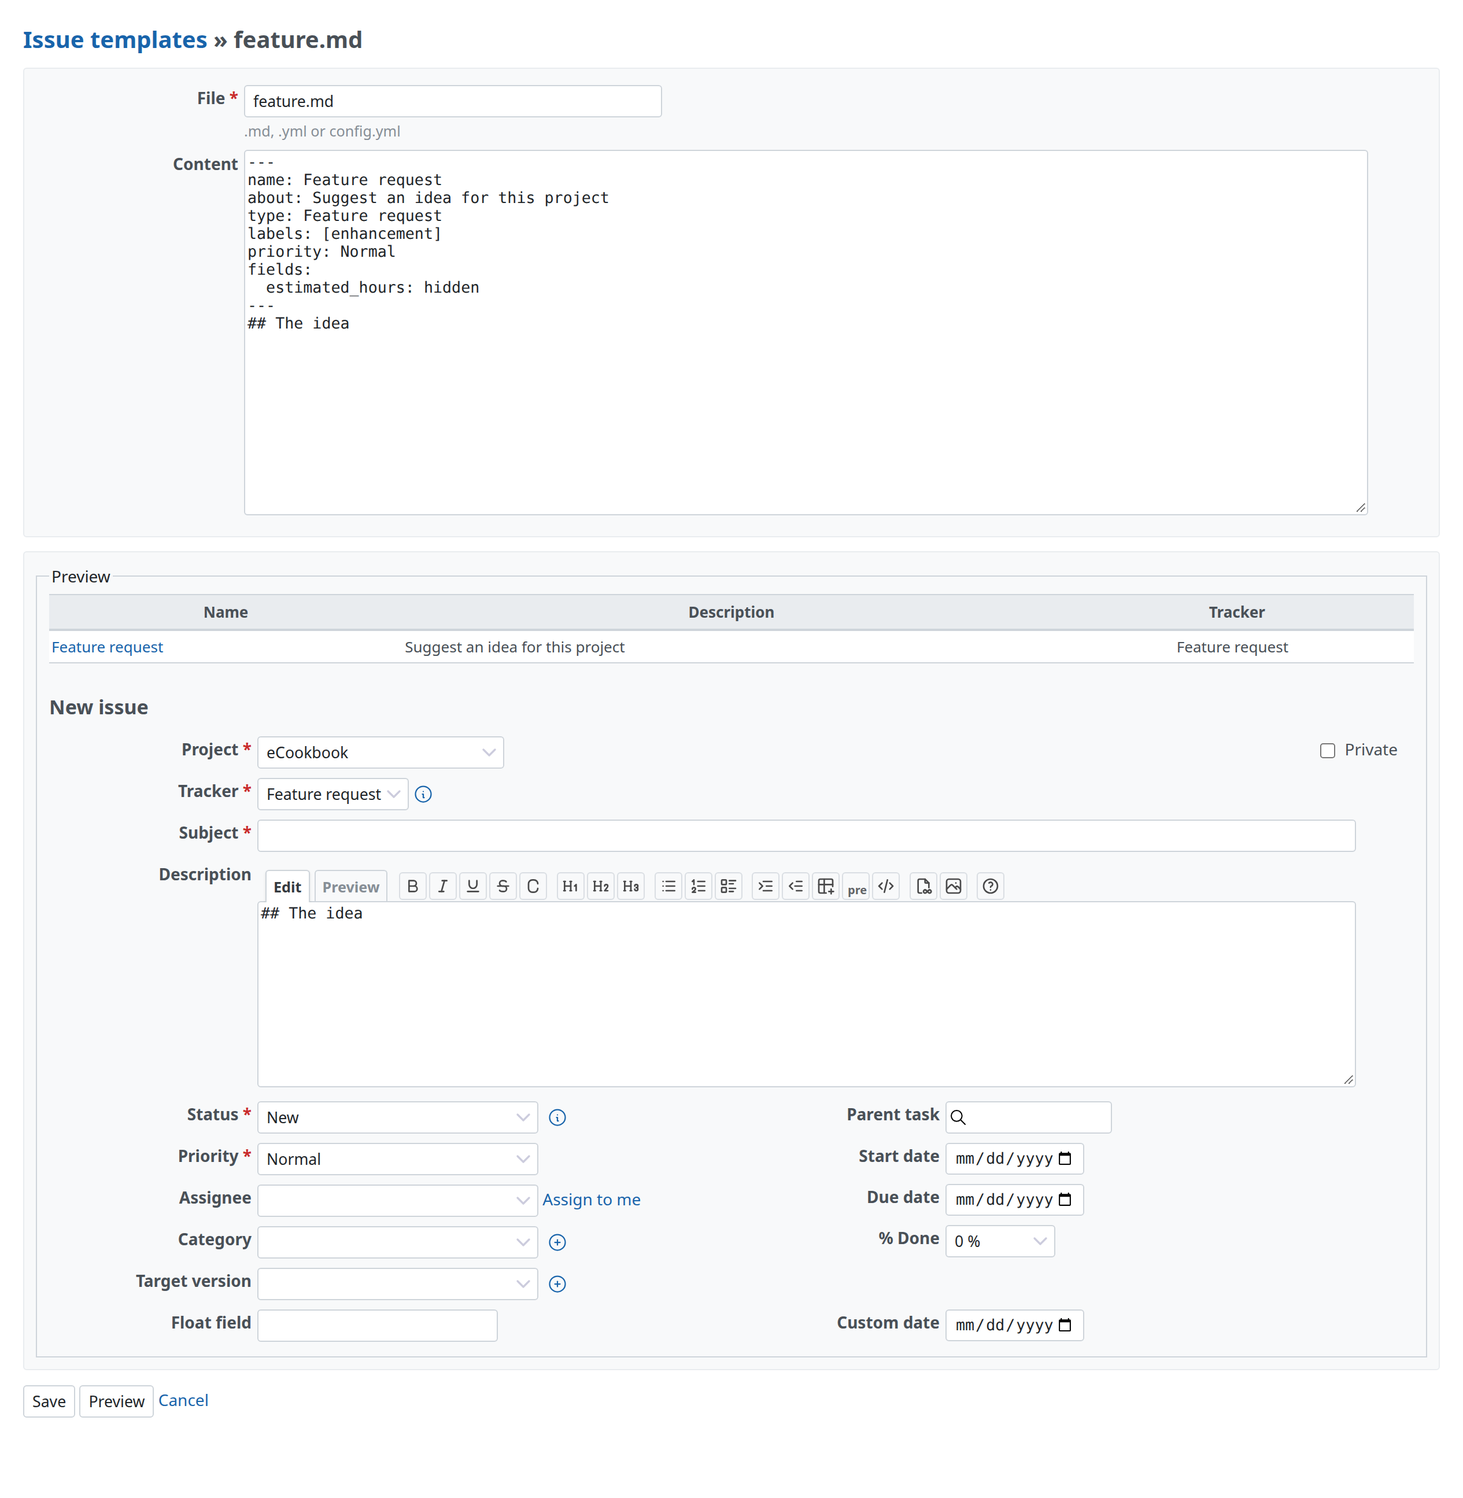
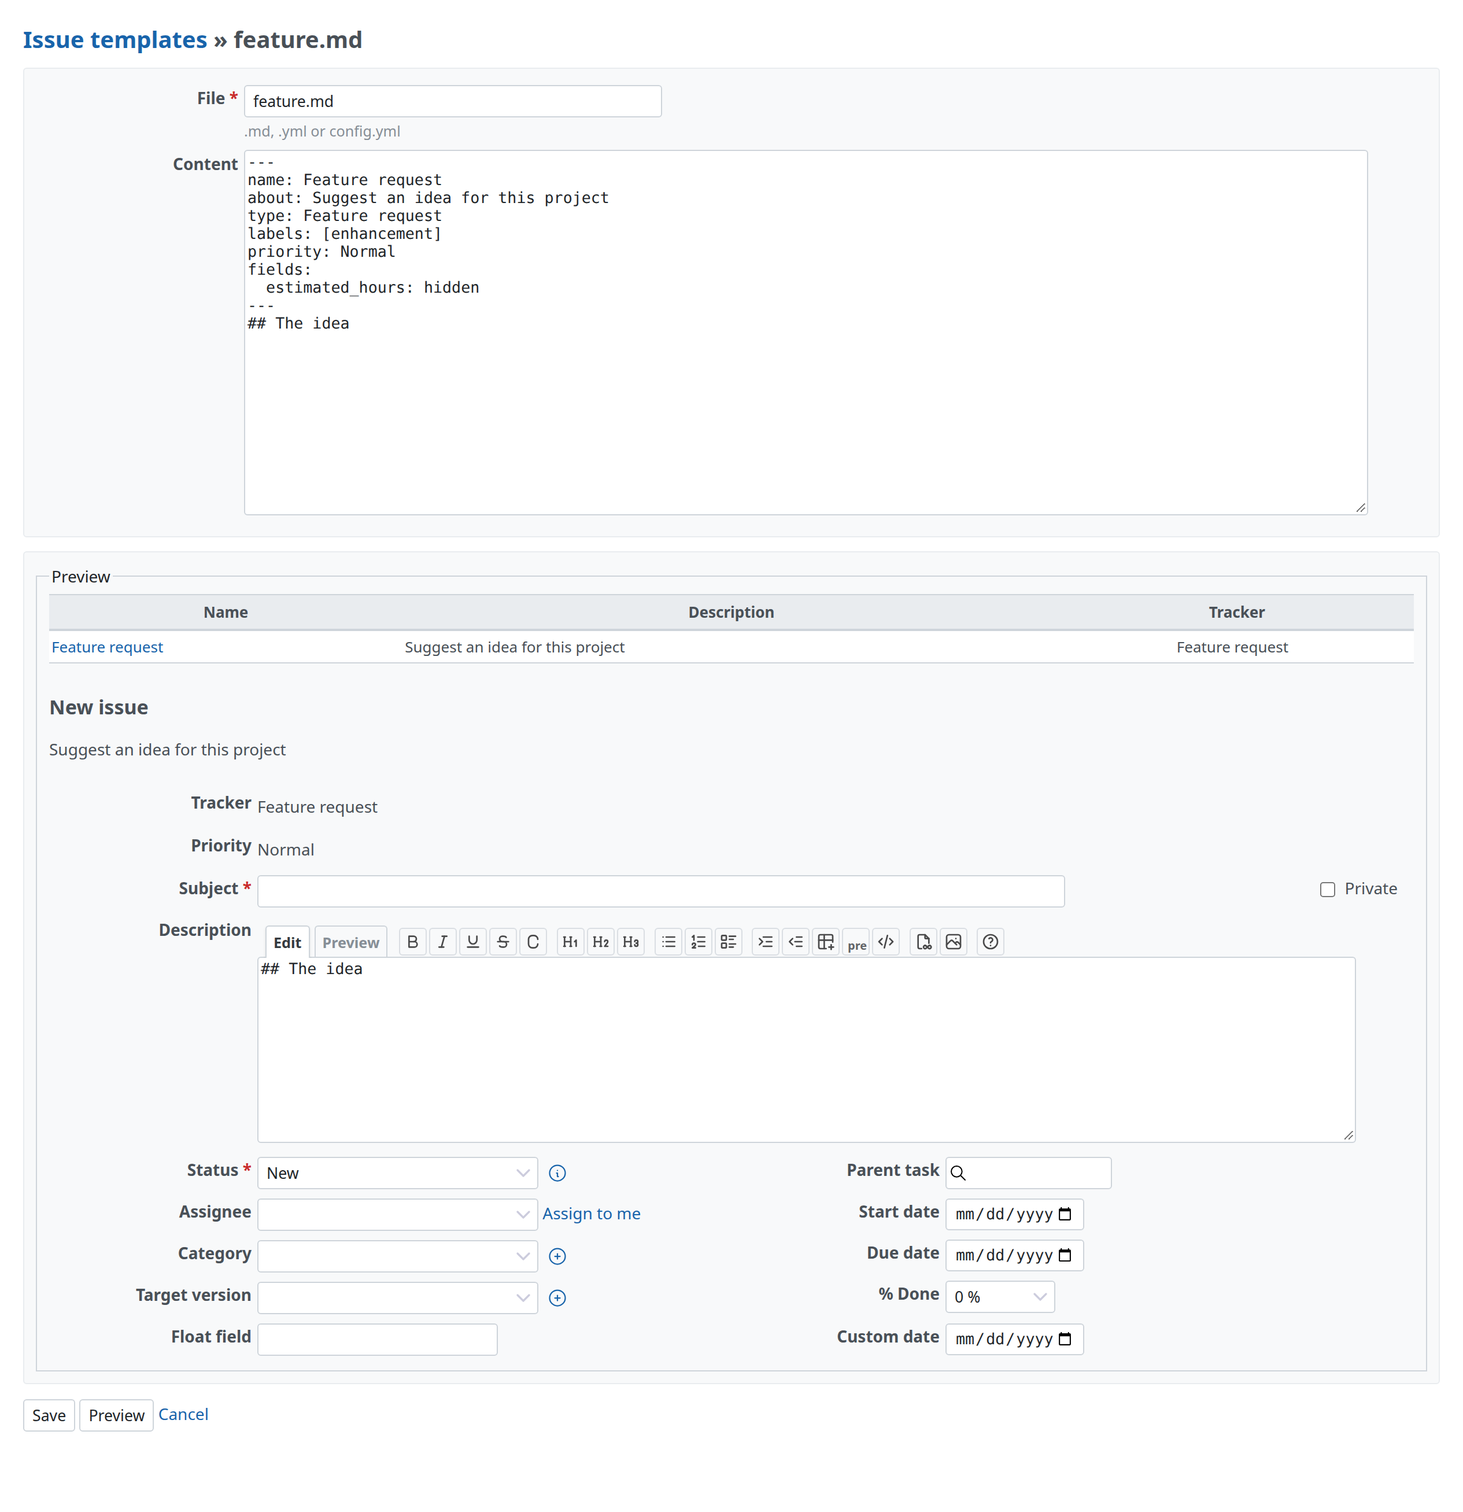
Show a template's form above Redmine's and keep the template's values
- A box under the page's title holds a YAML form's description, tracker,
  subject and fields; Redmine's box below keeps the other attributes.
- The values the template sets are shown as text and can't be changed,
  and the project can't be changed while a template applies.
- A checkbox option that must be checked is marked on the option only.
- The project settings say only that some templates can't be used; each
  template's page shows its errors and warnings.

diff --git a/assets/stylesheets/issue_template.css b/assets/stylesheets/issue_template.css
@@ -1,0 +1,35 @@
+/* A template's form: the subject is in the box above, so the
+   Private checkbox (floated right at the top of Redmine's form) no longer
+   has the subject beside it. The attributes start below it instead of
+   being squeezed by it. */
+#all_attributes #attributes {
+  clear: both;
+}
+
+/* The values a template sets, as text: in the box of a field (Redmine's
+   input: padding, margin and border), so that the row lines up with the
+   rows of fields. */
+.issue-template-value {
+  display: inline-block;
+  vertical-align: middle;
+  margin-block: 1px;
+  padding-block: 4px;
+  border-block: 1px solid transparent;
+  line-height: normal;
+}
+
+/* The warnings of the project settings: as Redmine's error box above them
+   (#errorExplanation), without the extra space above a flash message. */
+div.flash.warning.issue-template-warnings {
+  margin-block-start: 0;
+  position: relative;
+}
+div.flash.warning.issue-template-warnings > svg.icon-svg {
+  position: absolute;
+  inset-block-start: 50%;
+  margin-inline-start: -24px;
+  margin-block-start: -9px;
+}
+div.flash.warning.issue-template-warnings ul {
+  font-size: 0.9em;
+}

diff --git a/test/functional/issues_controller_template_test.rb b/test/functional/issues_controller_template_test.rb
@@ -67,11 +67,15 @@ module RedmineIssueTemplate
       get :new, params: { project_id: 'ecookbook', issue_template: 'feature' }
       assert_response :success
       assert_select 'input[name=issue_template][value=feature]'
-      assert_select 'select#issue_tracker_id option[selected=selected][value="2"]'
+      # The values the template sets are text, not fields.
+      assert_select 'select#issue_tracker_id', 0
+      assert_select 'p', text: /Tracker\s+Feature request/
       assert_select 'input#issue_subject[value=?]', '[Feature] '
       assert_select 'textarea#issue_description', text: /\A## The idea/
-      assert_select 'select#issue_priority_id option[selected=selected][value="6"]'
-      assert_select 'select#issue_category_id option[selected=selected][value="2"]'
+      assert_select 'select#issue_priority_id', 0
+      assert_select 'p', text: /Priority\s+High/
+      assert_select 'select#issue_category_id', 0
+      assert_select 'p', text: /Category\s+Recipes/
       assert_select 'input#issue_estimated_hours', 0
       assert_select 'label[for=issue_due_date] span.required'
       assert_select '#issue_custom_field_values_8', 0
@@ -96,8 +100,14 @@ module RedmineIssueTemplate
     test 'an issue form shows its fields instead of the description' do
       get :new, params: { project_id: 'ecookbook', issue_template: 'bug_report' }
       assert_response :success
-      assert_select 'select#issue_tracker_id option[selected=selected][value="1"]'
-      assert_select 'input#issue_subject[value=?]', '[Bug]: '
+      assert_select '.issue-template-fields p', text: /Tracker\s+Bug/
+      assert_select '#issue-form p', text: /Tracker/, count: 0
+      # The subject and the fields are in a box above Redmine's form, and
+      # belong to the form.
+      assert_select '#issue-form input#issue_subject', 0
+      assert_select '.issue-template-fields input#issue_subject[form=issue-form][value=?]', '[Bug]: '
+      assert_select '.issue-template-fields textarea[form=issue-form][name=?]', 'issue_template_answers[what-happened]'
+      assert_select 'head link[rel=stylesheet][href^=?]', '/assets/plugin_assets/redmine_issue_template/issue_template-'
       assert_select 'textarea#issue_description', 0
       assert_select 'input[name=?]', 'issue_template_answers[contact]'
       assert_select 'textarea[name=?]', 'issue_template_answers[what-happened]', text: 'A bug happened!'
@@ -105,6 +115,9 @@ module RedmineIssueTemplate
                     text: '1.0.2 (Default)'
       assert_select 'select[name=?][multiple=multiple]', 'issue_template_answers[browsers][]'
       assert_select 'input[type=checkbox][name=?]', 'issue_template_answers[terms][]'
+      # A required option is marked on the option, not on the field.
+      assert_select 'p:has(input[name="issue_template_answers[terms][]"]) > label:not(.block) span.required', 0
+      assert_select 'p:has(input[name="issue_template_answers[terms][]"]) label.block span.required'
       assert_select 'div.wiki', text: /Thanks for taking the time/
       # Markdown in descriptions is rendered.
       assert_select 'em.info a[href=?]', 'https://example.com', text: 'Code of Conduct'
@@ -140,8 +153,62 @@ module RedmineIssueTemplate
                            form_update_triggered_by: 'issue_tracker_id', issue: { tracker_id: '3', subject: 'x' },
                            issue_template_answers: { 'contact' => 'me@example.com' } }, xhr: true
       assert_response :success
-      assert_include 'issue_template_answers[contact]', response.body
-      assert_include 'me@example.com', response.body
+      # The form's fields are outside the part Redmine updates.
+      assert_not_include 'issue_template_answers[contact]', response.body
+      assert_not_include 'issue[subject]', response.body
+    end
+
+    test 'the project stays the one the template was chosen in' do
+      # Without a template, Redmine offers the subprojects.
+      get :new, params: { project_id: 'ecookbook', issue_template: 'blank' }
+      assert_select 'select#issue_project_id'
+
+      get :new, params: { project_id: 'ecookbook', issue_template: 'feature' }
+      assert_response :success
+      assert_select 'select#issue_project_id', 0
+
+      post :new, params: { project_id: 'ecookbook', issue_template: 'feature',
+                           form_update_triggered_by: 'issue_project_id',
+                           issue: { project_id: '5', tracker_id: '2', subject: 'x' } }, xhr: true
+      assert_response :success
+      assert_not_include 'issue_project_id', response.body
+
+      post :create, params: { project_id: 'ecookbook', issue_template: 'feature',
+                              issue: { project_id: '5', tracker_id: '2', subject: 'More recipes', description: 'Text',
+                                       priority_id: '6', due_date: '2026-12-01' } }
+      issue = Issue.order(:id).last
+      assert_redirected_to "/issues/#{issue.id}"
+      assert_equal 1, issue.project_id
+    end
+
+    test 'a form without a tracker offers Redmine\'s trackers in its box' do
+      question = <<~YAML
+        name: Question
+        description: Ask
+        body:
+          - type: input
+            id: what
+            attributes:
+              label: What
+      YAML
+      import('question.yml' => question)
+      get :new, params: { project_id: 'ecookbook', issue_template: 'question' }
+      assert_response :success
+      assert_select '.issue-template-fields select#issue_tracker_id[form=issue-form][onchange*=updateIssueFrom]'
+      assert_select '#issue-form select#issue_tracker_id', 0
+
+      post :create, params: { project_id: 'ecookbook', issue_template: 'question',
+                              issue: { tracker_id: '3', subject: 'How?' }, issue_template_answers: { 'what' => 'x' } }
+      assert_equal 3, Issue.order(:id).last.tracker_id
+    end
+
+    test 'the request cannot change the values the template sets' do
+      post :create, params: { project_id: 'ecookbook', issue_template: 'feature',
+                              issue: { tracker_id: '1', subject: 'More recipes', description: 'Text', priority_id: '4',
+                                       category_id: '1', due_date: '2026-12-01' } }
+      issue = Issue.order(:id).last
+      assert_redirected_to "/issues/#{issue.id}"
+      assert_equal [2, 6, 2], [issue.tracker_id, issue.priority_id, issue.category_id]
     end
 
     test 'blank issues: off in config.yml, still offered to those who manage the templates' do

diff --git a/lib/redmine_issue_template/issues_controller_patch.rb b/lib/redmine_issue_template/issues_controller_patch.rb
@@ -16,7 +16,7 @@ module RedmineIssueTemplate
       template = current_issue_template
       if template
         issue_template_defaults_into_params(template) if request.get?
-        remove_issue_template_hidden_params(template)
+        restrict_issue_template_params(template)
       end
       super
       return if performed? || template.nil? || @issue.nil?
@@ -61,18 +61,25 @@ module RedmineIssueTemplate
       params[:issue] = ActionController::Parameters.new(merged)
     end
 
-    # Fields the template hides can't be given by the request: Redmine's
-    # defaults apply, then the template's values.
-    def remove_issue_template_hidden_params(template)
-      return unless params[:issue].respond_to?(:to_unsafe_h)
-
-      hidden = template.options.visibility(@project)[:hidden]
+    # What the request can't give while a template applies. Fields the
+    # template hides: Redmine's defaults apply, then the template's values.
+    # Values the template sets: the template's value, whatever the request
+    # says (before Redmine assigns them, so that the tracker comes first).
+    # The project: the issue stays in the project the template was chosen in.
+    def restrict_issue_template_params(template)
+      attrs = params[:issue].respond_to?(:to_unsafe_h) ? params[:issue].to_unsafe_h : {}
+      hidden = template.options.visibility(@project)[:hidden] | ['project_id']
       hidden |= ['description'] if template.form?
-      attrs = params[:issue].to_unsafe_h.except(*hidden)
-      if attrs['custom_field_values'].is_a?(Hash)
-        attrs['custom_field_values'] =
-          attrs['custom_field_values'].except(*hidden)
+      attrs = attrs.except(*hidden)
+      custom = attrs['custom_field_values'].is_a?(Hash) ? attrs['custom_field_values'].except(*hidden) : {}
+      IssueTemplateDefaults.new(template, @project).fixed.except(*hidden).each do |name, value|
+        if name.match?(/\A\d+\z/)
+          custom[name] = value
+        else
+          attrs[name] = value
+        end
       end
+      attrs['custom_field_values'] = custom if custom.any?
       params[:issue] = ActionController::Parameters.new(attrs)
     end
 
@@ -108,6 +115,15 @@ module RedmineIssueTemplate
       values
     end
 
+    # The values the form can't change: the template's attributes except the
+    # subject, the description and the assignee, which the form starts with.
+    # { "tracker_id" => "2", "3" => "x" }, custom fields by id.
+    def fixed
+      values = attributes
+      custom = values.delete('custom_field_values') || {}
+      values.except('subject', 'description', 'assigned_to_id').merge(custom)
+    end
+
     # Hidden fields are not in the form, so the template's values are set
     # directly, on every request.
     def apply_hidden(issue)
@@ -126,9 +142,10 @@ module RedmineIssueTemplate
     # preview in the project settings.
     def new_issue(user = User.current)
       issue = Issue.new(project: @project, author: user)
+      # Before the template applies, which takes its values out of the form.
+      issue.safe_attributes = attributes
       issue.issue_template = @template
       issue.issue_template_answers = {}
-      issue.safe_attributes = attributes
       issue.tracker ||= issue.allowed_target_trackers(user).first
       issue.status ||= issue.default_status
       apply_hidden(issue)

diff --git a/lib/redmine_issue_template/issue_patch.rb b/lib/redmine_issue_template/issue_patch.rb
@@ -24,30 +24,39 @@ module RedmineIssueTemplate
       new_record? && issue_template.present?
     end
 
-    # { hidden: [...], required: [...] }: attribute names and custom field ids.
+    # { hidden: [...], required: [...], fixed: [...] }: attribute names and
+    # custom field ids. Fixed: the values the template sets, shown as text.
     def issue_template_visibility
-      return { hidden: [], required: [] } unless issue_template_active? && project
+      return { hidden: [], required: [], fixed: [] } unless issue_template_active? && project
 
       @issue_template_visibility ||= begin
         visibility = issue_template.options.visibility(project)
         visibility[:hidden] |= ['description'] if issue_template.form?
+        visibility[:fixed] = IssueTemplateDefaults.new(issue_template, project).fixed.keys - visibility[:hidden]
         visibility
       end
+    end
+
+    # The fields the form leaves out or shows as text.
+    def issue_template_locked
+      issue_template_visibility[:hidden] | issue_template_visibility[:fixed]
     end
 
     def safe_attribute_names(user = nil)
       names = super
       return names unless issue_template_active?
 
-      names - issue_template_visibility[:hidden]
+      # A form has its tracker and subject in its own box.
+      names -= %w[tracker_id subject] if issue_template.form?
+      names - issue_template_locked - ['project_id']
     end
 
     def editable_custom_field_values(user = nil)
       values = super
       return values unless issue_template_active?
 
-      hidden = issue_template_visibility[:hidden]
-      values.reject { |value| hidden.include?(value.custom_field_id.to_s) }
+      locked = issue_template_locked
+      values.reject { |value| locked.include?(value.custom_field_id.to_s) }
     end
 
     # Redmine marks these fields as required and checks them.
@@ -55,7 +64,7 @@ module RedmineIssueTemplate
       names = super
       return names unless issue_template_active?
 
-      (names | issue_template_visibility[:required]) - issue_template_visibility[:hidden]
+      (names | issue_template_visibility[:required]) - issue_template_locked
     end
 
     def issue_template_composer
@@ -65,13 +74,13 @@ module RedmineIssueTemplate
     private
 
     # On create, Redmine resets the custom fields the user can't edit to their
-    # defaults. Fields the template hides are not editable in the form, but
-    # keep the value the template gives them.
+    # defaults. Fields the template hides or sets are not editable in the
+    # form, but keep the value the template gives them.
     def force_default_value_on_noneditable_custom_fields
       return super unless issue_template_active?
 
-      hidden = issue_template_visibility[:hidden]
-      kept = custom_field_values.select { |value| hidden.include?(value.custom_field_id.to_s) }
+      locked = issue_template_locked
+      kept = custom_field_values.select { |value| locked.include?(value.custom_field_id.to_s) }
                                 .to_h { |value| [value, value.value] }
       super
       kept.each { |field_value, value| field_value.value = value }

diff --git a/test/functional/project_settings_test.rb b/test/functional/project_settings_test.rb
@@ -16,7 +16,7 @@ module RedmineIssueTemplate
       @request.session[:user_id] = 2
     end
 
-    test 'the tab lists the files with their errors and warnings' do
+    test 'the tab lists the files and says when some can\'t be used' do
       import(github_files.merge('broken.yml' => "name: x\n"))
       get :settings, params: { id: 'ecookbook', tab: 'issue_templates' }
       assert_response :success
@@ -24,9 +24,11 @@ module RedmineIssueTemplate
       assert_select 'table.list.issue-template-files tbody tr', 4
       assert_select 'table.list.issue-template-files td.name', text: 'broken.yml'
       assert_select 'table.list.issue-template-files td', text: 'Template chooser', count: 0
-      assert_select '#errorExplanation li', text: 'broken.yml: description cannot be blank'
-      assert_select 'div.warning li', text: /octo-org/
-      assert_select '#tab-content-issue_templates p a.icon-add', text: 'New file'
+      # The problems themselves are on the file's page.
+      assert_select '#errorExplanation', text: /Some templates cannot be used because they have errors/
+      assert_select '#errorExplanation li', 0
+      assert_select 'div.warning li', 0
+      assert_select '#tab-content-issue_templates p a.icon-add', text: 'New template'
       assert_select '#tab-content-issue_templates p a.icon-import', text: 'Import'
       assert_select '#tab-content-issue_templates p a.icon-help[href=?]', "#{RedmineIssueTemplate::DOCS_URL}format"
       assert_select 'table.issue-template-source', 0

diff --git a/test/functional/issue_templates_controller_test.rb b/test/functional/issue_templates_controller_test.rb
@@ -121,6 +121,15 @@ module RedmineIssueTemplate
       end
     end
 
+    test 'the page of a file shows its warnings' do
+      import(github_files)
+      file = IssueTemplateFile.find_by(project: @project, path: 'bug_report.yml')
+      get :show, params: { project_id: 'ecookbook', id: file.id }
+      assert_response :success
+      assert_select 'div.flash.warning li', text: /octo-org/
+      assert_select 'div.flash.warning li', text: /bug\.md/, count: 0
+    end
+
     test 'preview of a file with errors shows the errors' do
       post :create, params: { project_id: 'ecookbook', preview: 'Preview',
                               issue_template_file: { path: 'form.yml', content: "name: Form\n" } }

diff --git a/lib/redmine_issue_template/hooks.rb b/lib/redmine_issue_template/hooks.rb
@@ -1,10 +1,10 @@
 # frozen_string_literal: true
 
 module RedmineIssueTemplate
-  # The issue form keeps the chosen template across its updates and shows an
-  # issue form's fields after the issue's attributes.
+  # Under the page's title, the template's text and an issue form's subject
+  # and fields; in the issue form, the chosen template, kept across updates.
   class Hooks < Redmine::Hook::ViewListener
+    render_on :view_issues_new_top, partial: 'issue_templates/intro'
     render_on :view_issues_form_details_top, partial: 'issue_templates/form_key'
-    render_on :view_issues_form_details_bottom, partial: 'issue_templates/form_fields'
   end
 end

diff --git a/app/helpers/issue_template_form_helper.rb b/app/helpers/issue_template_form_helper.rb
@@ -1,0 +1,13 @@
+# frozen_string_literal: true
+
+# Added after Redmine's IssuesHelper, whose method it changes.
+module IssueTemplateFormHelper
+  # The issue form offers no other project while a template applies: the
+  # template's values belong to the project it was chosen in. With a single
+  # project, Redmine leaves the project field out of the form.
+  def projects_for_select(issue)
+    return [issue.project] if issue.respond_to?(:issue_template_active?) && issue.issue_template_active?
+
+    super
+  end
+end

diff --git a/test/screenshots/screens.rb b/test/screenshots/screens.rb
@@ -37,7 +37,8 @@ class RedmineIssueTemplateScreenshotsTest < ScreenshotCase
 
       visit '/projects/ecookbook/issues/new?issue_template=bug_report'
       assert_selector 'textarea[name="issue_template_answers[what-happened]"]'
-      shoot 'issue-form', language, selector: '#issue-form'
+      # With the page's title, so that the form reads as Redmine's New issue.
+      shoot 'issue-form', language
     end
 
     import(github_files.merge('feature.md' => FEATURE, 'broken.yml' => "name: Broken form\nbody: []\n"))

diff --git a/app/models/issue_template_source.rb b/app/models/issue_template_source.rb
@@ -12,6 +12,12 @@ class IssueTemplateSource < ApplicationRecord
     find_or_initialize_by(project_id: project.id)
   end
 
+  # The errors and warnings of the project's files: those of the last import
+  # when there is a source, else those of the stored files.
+  def self.messages_for(project, source)
+    source ? source.message_list : RedmineIssueTemplate::TemplateSet.for(project).messages
+  end
+
   # Files from the repository or GitHub are edited there, not in Redmine.
   def manual?
     kind == 'manual'

diff --git a/app/controllers/issue_templates_controller.rb b/app/controllers/issue_templates_controller.rb
@@ -13,6 +13,7 @@ class IssueTemplatesController < ApplicationController
 
   # What Redmine's issue form needs, for the preview.
   helper :issues, :journals, :projects, :custom_fields, :issue_relations, :watchers, :attachments
+  helper IssueTemplateFormHelper
 
   def index
     @set = RedmineIssueTemplate::TemplateSet.for(@project)

diff --git a/lib/redmine_issue_template.rb b/lib/redmine_issue_template.rb
@@ -27,6 +27,7 @@ module RedmineIssueTemplate
     Issue.prepend IssuePatch
     IssuesController.prepend IssuesControllerPatch
     IssuesController.helper IssueTemplatesHelper
+    IssuesController.helper IssueTemplateFormHelper
     ProjectsHelper.prepend ProjectsHelperPatch
     RepositoryPatch.install
   end
